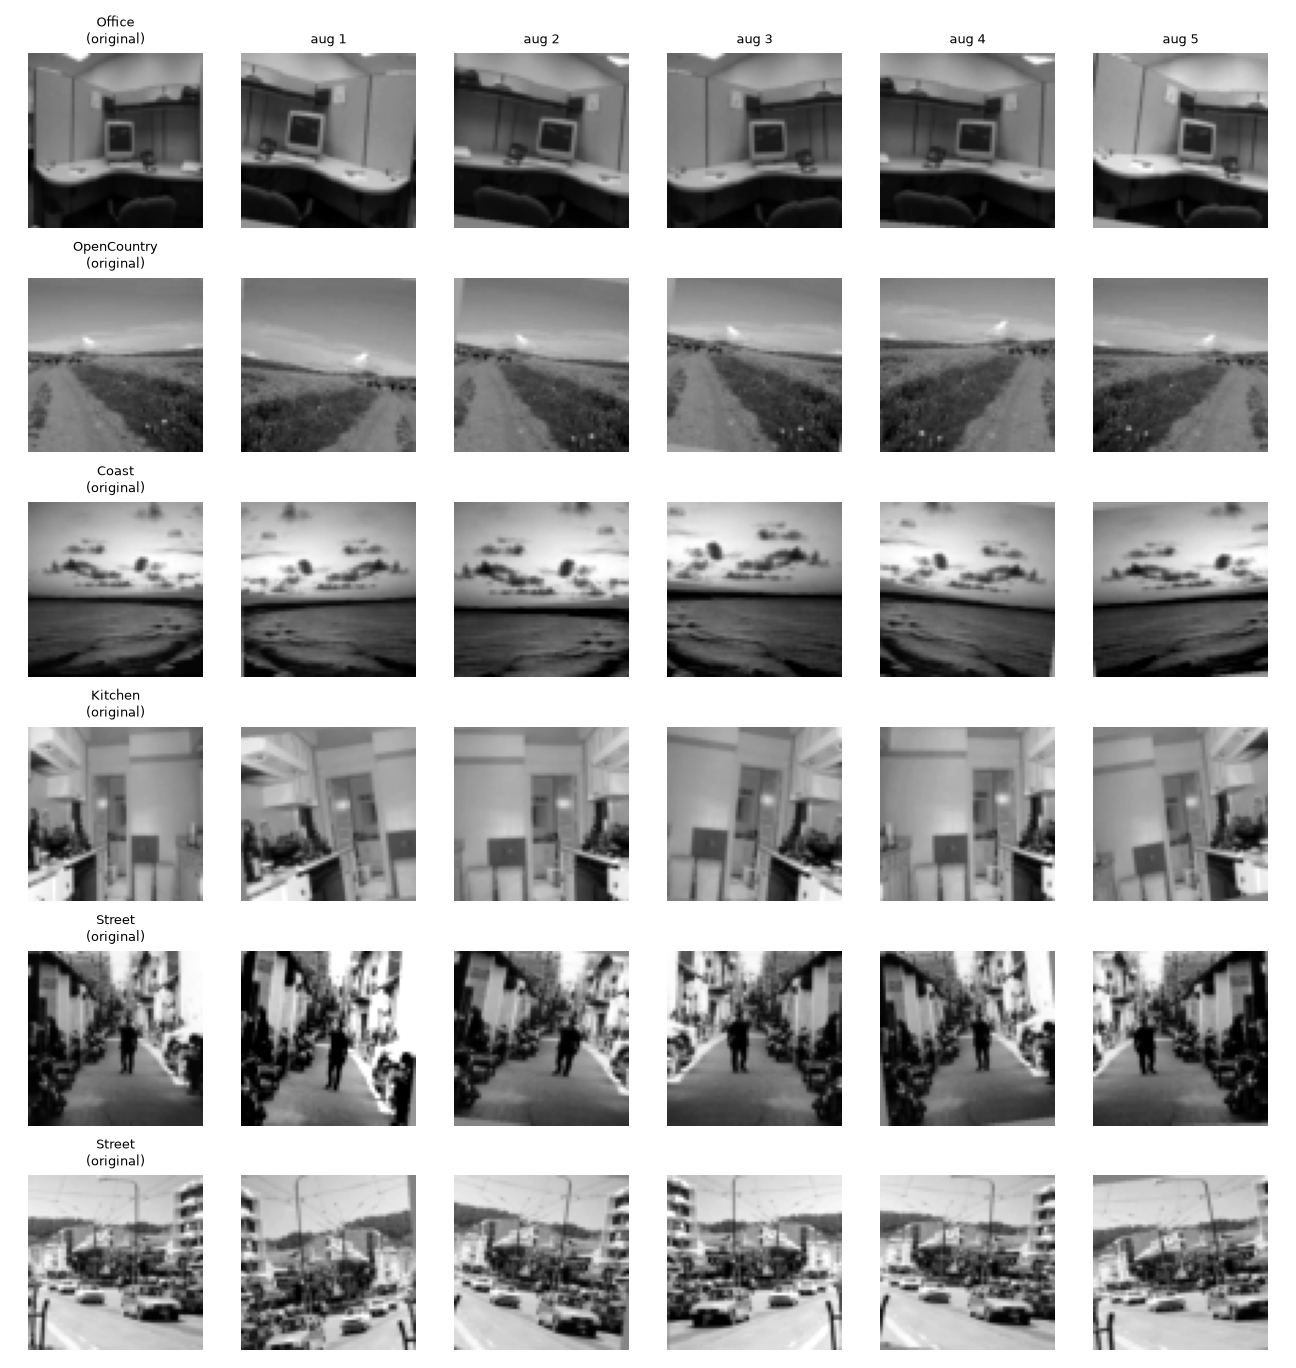
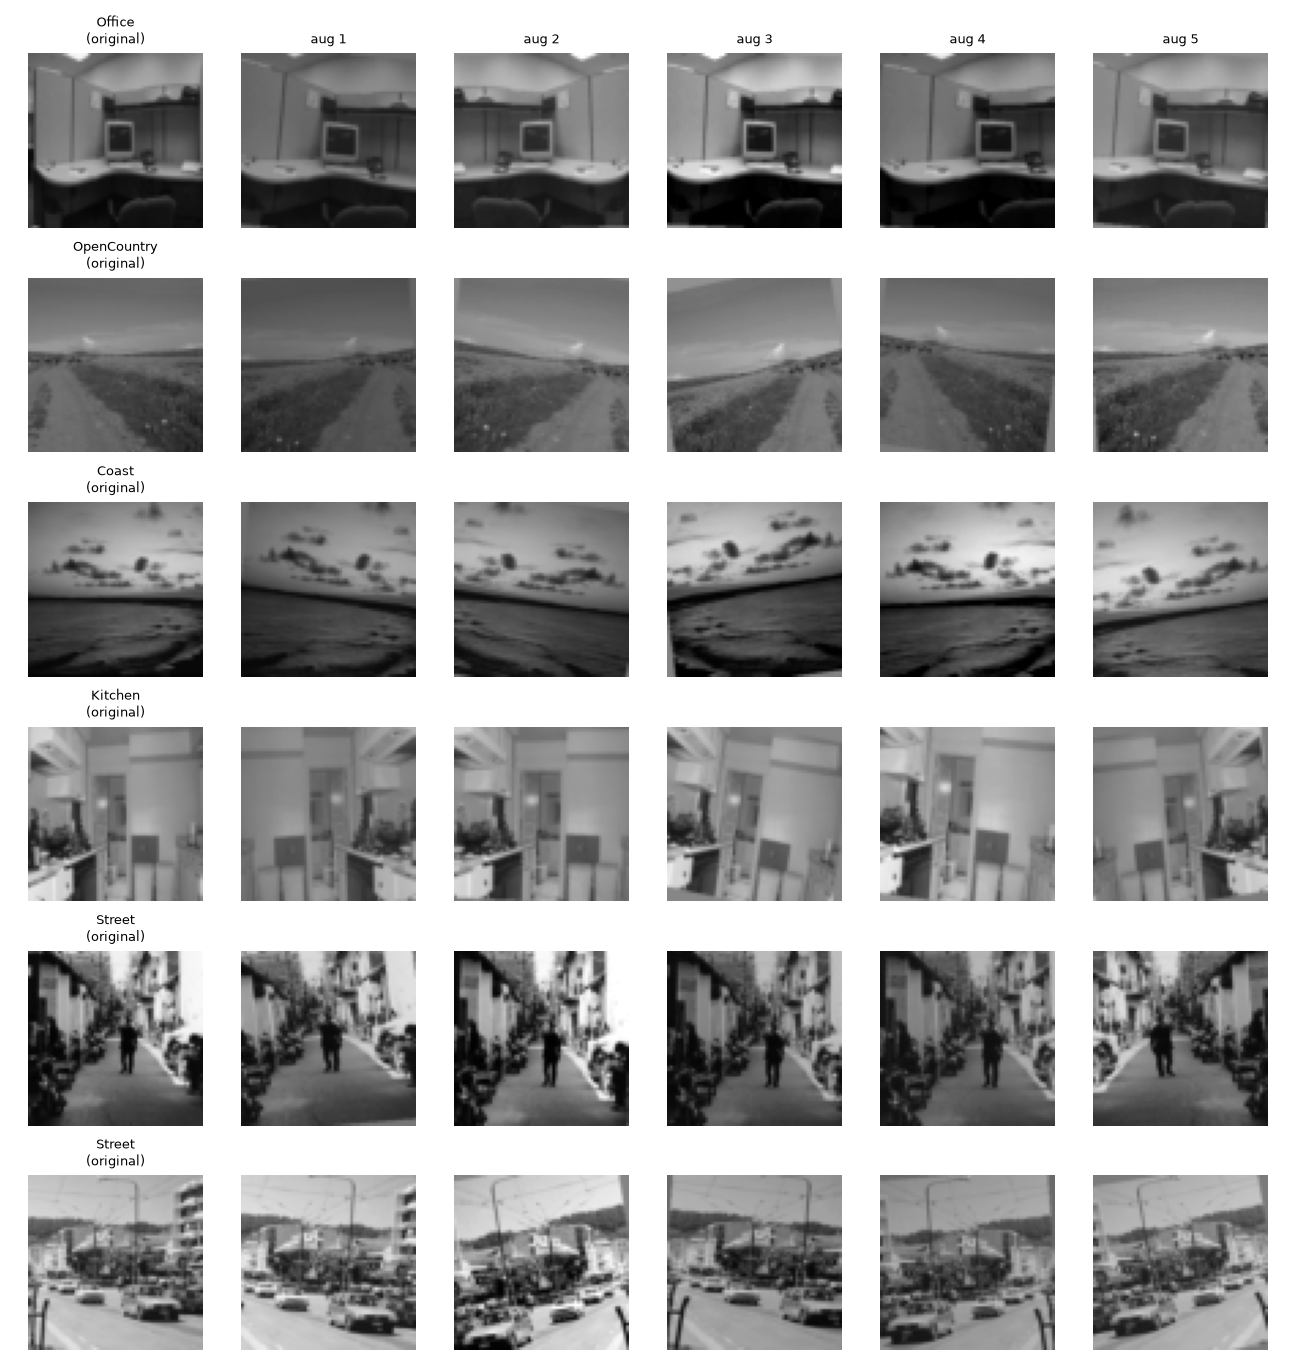
Fix augmentation preview: show true intensities (no per-image contrast stretch)

diff --git a/preview_augmentation.py b/preview_augmentation.py
@@ -40,7 +40,7 @@ def main():
         views = [plain(image)] + [augmented(image) for _ in range(args.n_augments)]
         for col, view in enumerate(views):
             ax = axes[row, col]
-            ax.imshow((view * std + mean).permute(1, 2, 0).squeeze().clamp(0, 1), cmap='gray')
+            ax.imshow((view * std + mean).permute(1, 2, 0).squeeze().clamp(0, 1), cmap='gray', vmin=0, vmax=1)
             ax.axis('off')
             if col == 0:
                 ax.set_title(f'{dataset.classes[label]}\n(original)', fontsize=8)
